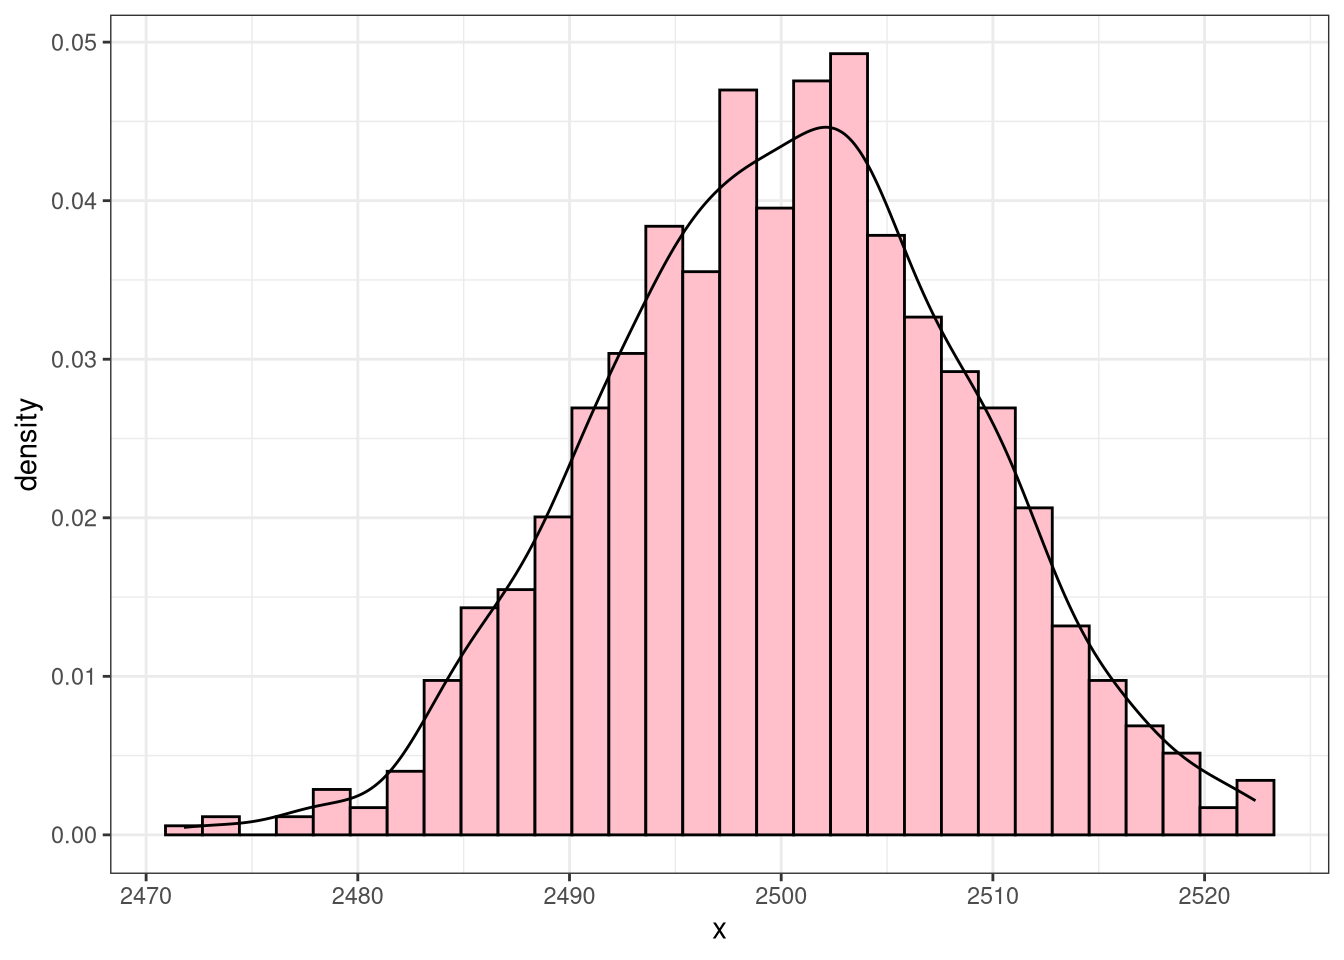
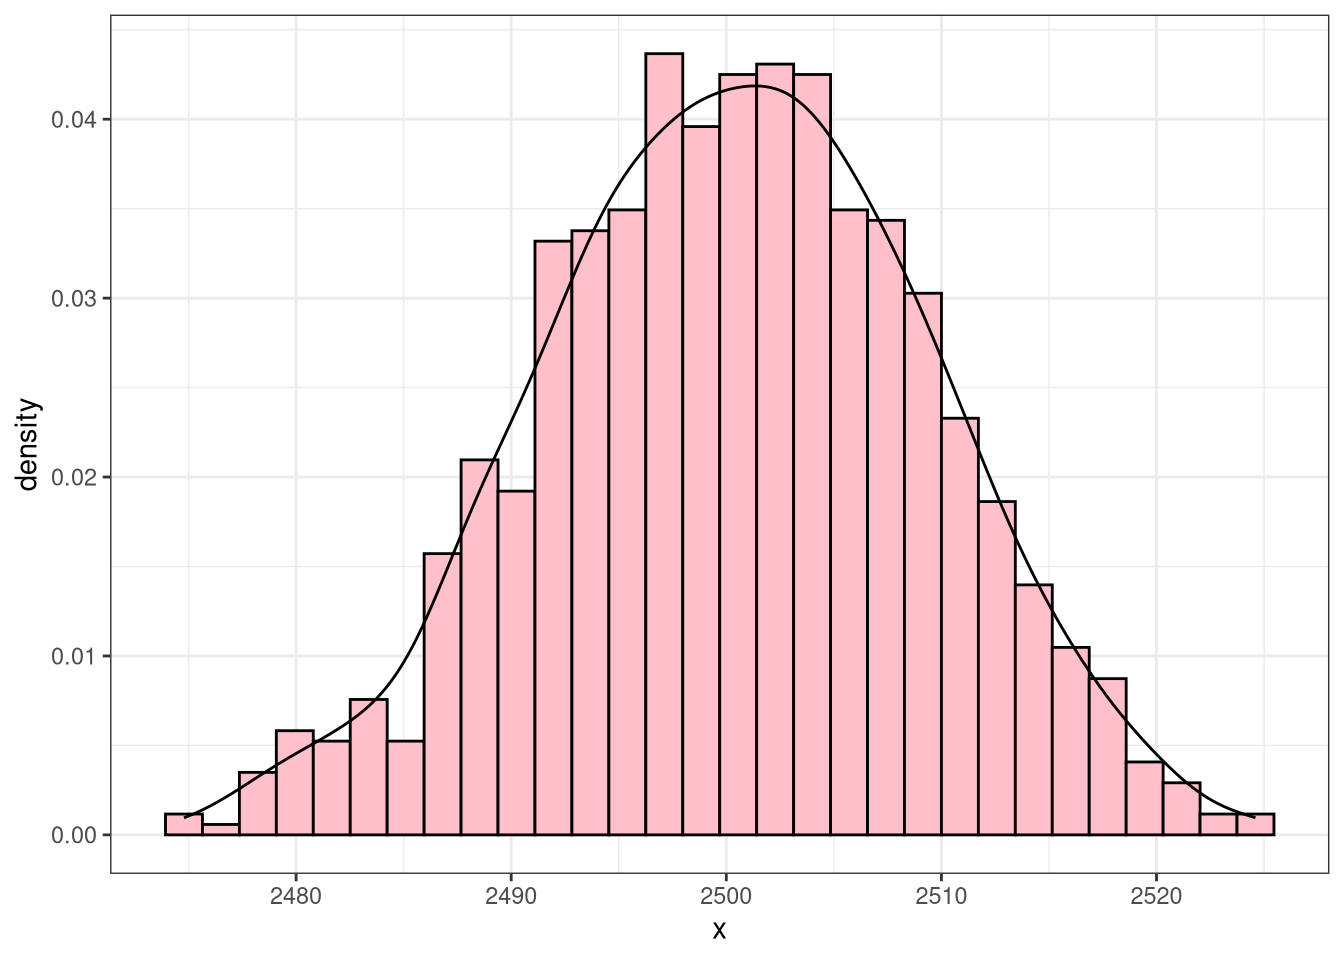
tweakers

diff --git a/Rmarkdown/5ng.html b/Rmarkdown/5ng.html
@@ -6,7 +6,7 @@
 
 <meta name="viewport" content="width=device-width, initial-scale=1.0, user-scalable=yes">
 
-<meta name="author" content="Alan Arnholt">
+<meta name="author" content="Alan T. Arnholt">
 
 <title>In Class Demo</title>
 <style>
@@ -128,14 +128,14 @@ window.Quarto = {
     <div>
     <div class="quarto-title-meta-heading">Author</div>
     <div class="quarto-title-meta-contents">
-             <p>Alan Arnholt </p>
+             <p>Alan T. Arnholt </p>
           </div>
   </div>
     
     <div>
     <div class="quarto-title-meta-heading">Published</div>
     <div class="quarto-title-meta-contents">
-      <p class="date">Last modified on August 28, 2026 10:13:45 Eastern Daylight Time</p>
+      <p class="date">Last modified on August 28, 2026 13:08:11 Eastern Daylight Time</p>
     </div>
   </div>
   
@@ -189,14 +189,14 @@ Figure&nbsp;1: This is a scatterplot of pressure versus temperature
 <div class="code-copy-outer-scaffold"><div class="sourceCode cell-code" id="cb3"><pre class="sourceCode r code-with-copy"><code class="sourceCode r"><span id="cb3-1"><a href="#cb3-1" aria-hidden="true" tabindex="-1"></a>RN <span class="ot">&lt;-</span> <span class="fu">rnorm</span>(<span class="dv">1000</span>, <span class="dv">2500</span>, <span class="fl">8.7952</span>)</span>
 <span id="cb3-2"><a href="#cb3-2" aria-hidden="true" tabindex="-1"></a>(xbar <span class="ot">&lt;-</span> <span class="fu">mean</span>(RN))</span></code></pre></div><button title="Copy to Clipboard" class="code-copy-button"><i class="bi"></i></button></div>
 <div class="cell-output cell-output-stdout">
-<pre><code>[1] 2500.235</code></pre>
+<pre><code>[1] 2500.419</code></pre>
 </div>
 <div class="code-copy-outer-scaffold"><div class="sourceCode cell-code" id="cb5"><pre class="sourceCode r code-with-copy"><code class="sourceCode r"><span id="cb5-1"><a href="#cb5-1" aria-hidden="true" tabindex="-1"></a>(S <span class="ot">&lt;-</span> <span class="fu">sd</span>(RN))</span></code></pre></div><button title="Copy to Clipboard" class="code-copy-button"><i class="bi"></i></button></div>
 <div class="cell-output cell-output-stdout">
-<pre><code>[1] 8.61068</code></pre>
+<pre><code>[1] 8.917359</code></pre>
 </div>
 </div>
-<p>The mean of <code>RN</code> is 2500.23 and the standard deviation is 8.61.</p>
+<p>The mean of <code>RN</code> is 2500.42 and the standard deviation is 8.92.</p>
 </section>
 <section id="using-latex" class="level2">
 <h2 class="anchored" data-anchor-id="using-latex">Using <span class="math inline">\(\LaTeX\)</span></h2>
@@ -245,12 +245,12 @@ Figure&nbsp;1: This is a scatterplot of pressure versus temperature
 <span id="cb17-3"><a href="#cb17-3" aria-hidden="true" tabindex="-1"></a><span class="fu">head</span>(RND)</span></code></pre></div><button title="Copy to Clipboard" class="code-copy-button"><i class="bi"></i></button></div>
 <div class="cell-output cell-output-stdout">
 <pre><code>         x
-1 2508.132
-2 2506.292
-3 2508.677
-4 2489.206
-5 2508.832
-6 2502.234</code></pre>
+1 2488.738
+2 2509.955
+3 2502.026
+4 2502.293
+5 2494.241
+6 2501.858</code></pre>
 </div>
 <div class="code-copy-outer-scaffold"><div class="sourceCode cell-code" id="cb19"><pre class="sourceCode r code-with-copy"><code class="sourceCode r"><span id="cb19-1"><a href="#cb19-1" aria-hidden="true" tabindex="-1"></a><span class="fu">ggplot</span>(<span class="at">data =</span> RND, <span class="fu">aes</span>(<span class="at">x =</span> x, <span class="at">y =</span> ..density..)) <span class="sc">+</span> </span>
 <span id="cb19-2"><a href="#cb19-2" aria-hidden="true" tabindex="-1"></a>  <span class="fu">geom_histogram</span>(<span class="at">color =</span> <span class="st">"black"</span>, <span class="at">fill =</span> <span class="st">"pink"</span>) <span class="sc">+</span> </span>
